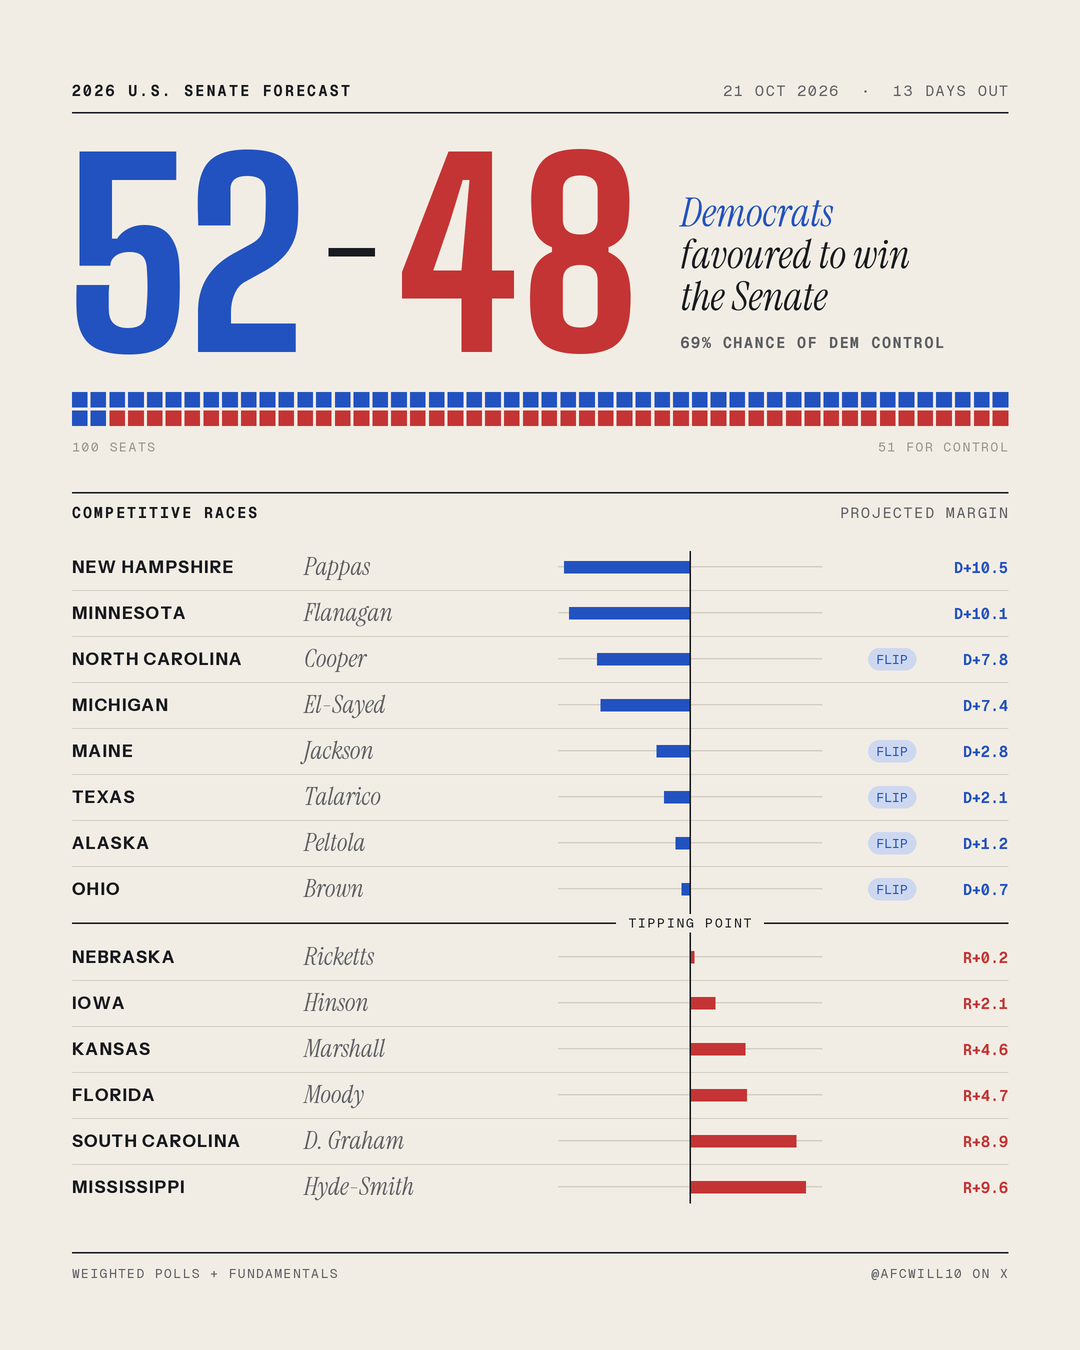
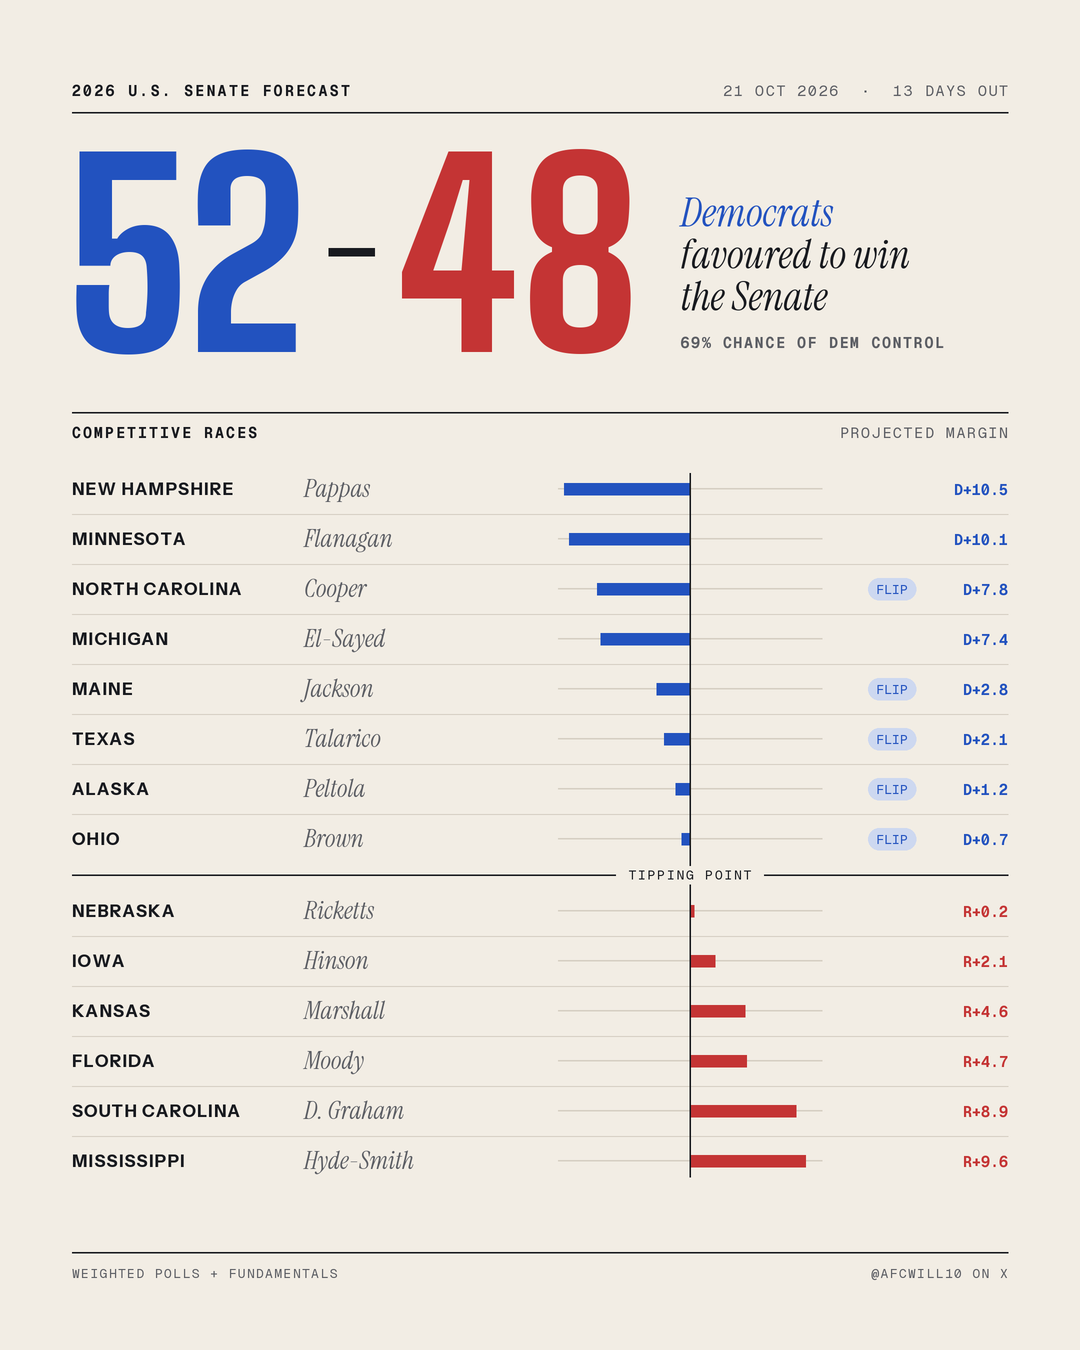
Senate graphic: remove seat tiles, roomier race rows

Changed region(s): [[0.0611, 0.28, 0.9472, 0.9022]]

diff --git a/graphics/make_instagram.py b/graphics/make_instagram.py
@@ -126,20 +126,8 @@ def main():
     text(d, (right_block_x, 310), "the Senate", serif_big, INK, "ls")
     tracked(d, (right_block_x, 348), f"{CONTROL}% CHANCE OF DEM CONTROL", mono_b, GRAPHITE, 1.6)
 
-    # --- seat strip: 100 tiles, 50 per row -----------------------------------
-    top, tgap = 392, 3.6
-    tile = ((R - L) - 49 * tgap) / 50          # 50 tiles fill the measure exactly
-    for i in range(100):
-        row, col = divmod(i, 50)
-        tx = L + col * (tile + tgap)
-        ty = top + row * (tile + tgap)
-        rect(d, (tx, ty, tx + tile, ty + tile), BLUE if i < DEM_SEATS else RED)
-    # majority marker after seat 50 (between tile 50 and 51 = start of row 2)
-    tracked(d, (L, top + 2 * (tile + tgap) + 22), "100 SEATS", mono_sm, MUTED, 1.4)
-    tracked(d, (R, top + 2 * (tile + tgap) + 22), "51 FOR CONTROL", mono_sm, MUTED, 1.4, anchor="r")
-
     # --- race ledger -----------------------------------------------------------
-    head_y = 492
+    head_y = 412
     rect(d, (L, head_y, R, head_y + 1), INK)
     tracked(d, (L, head_y + 26), "COMPETITIVE RACES", mono_b, INK, 2.0)
     tracked(d, (R, head_y + 26), "PROJECTED MARGIN", mono, GRAPHITE, 1.6, anchor="r")
@@ -149,7 +137,7 @@ def main():
     half = 132                       # bar room either side of the axis
     scale = half / 11.0
     col_margin = R
-    row_h, y0 = 46, head_y + 52
+    row_h, y0 = 50, head_y + 52
     split_gap = 22
 
     for i, (state, name, party, margin, flip) in enumerate(RACES):
